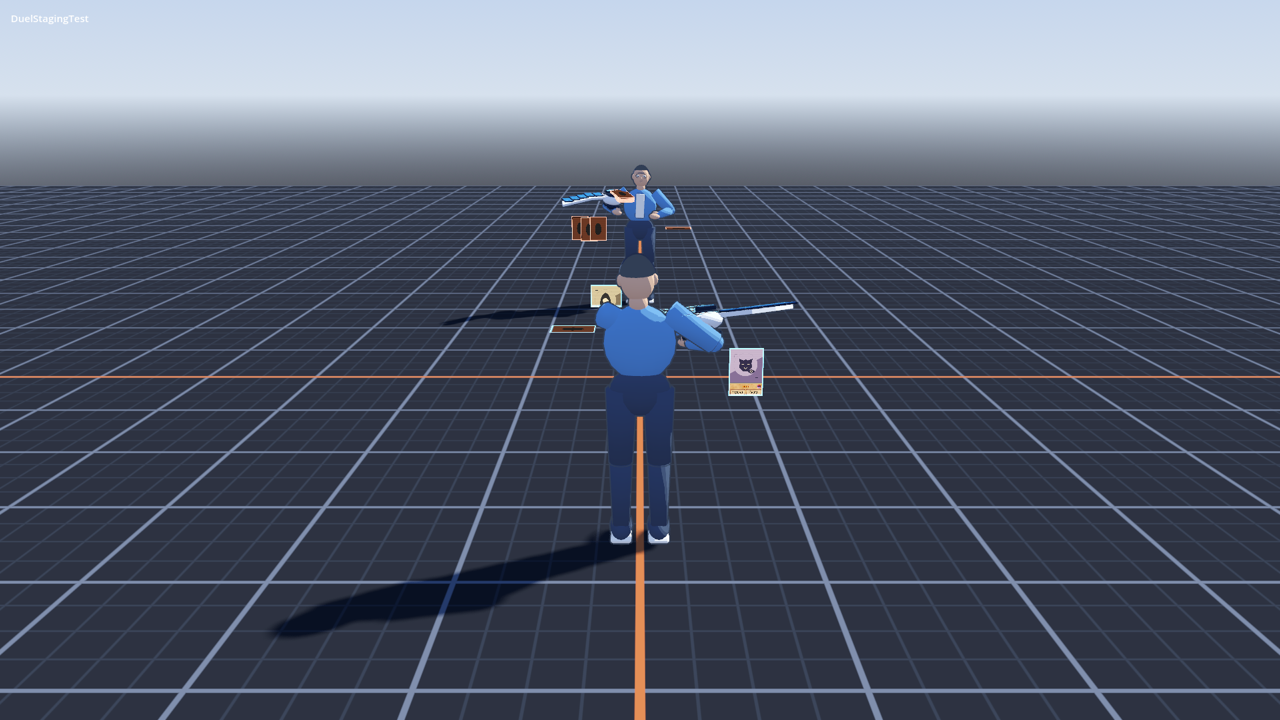
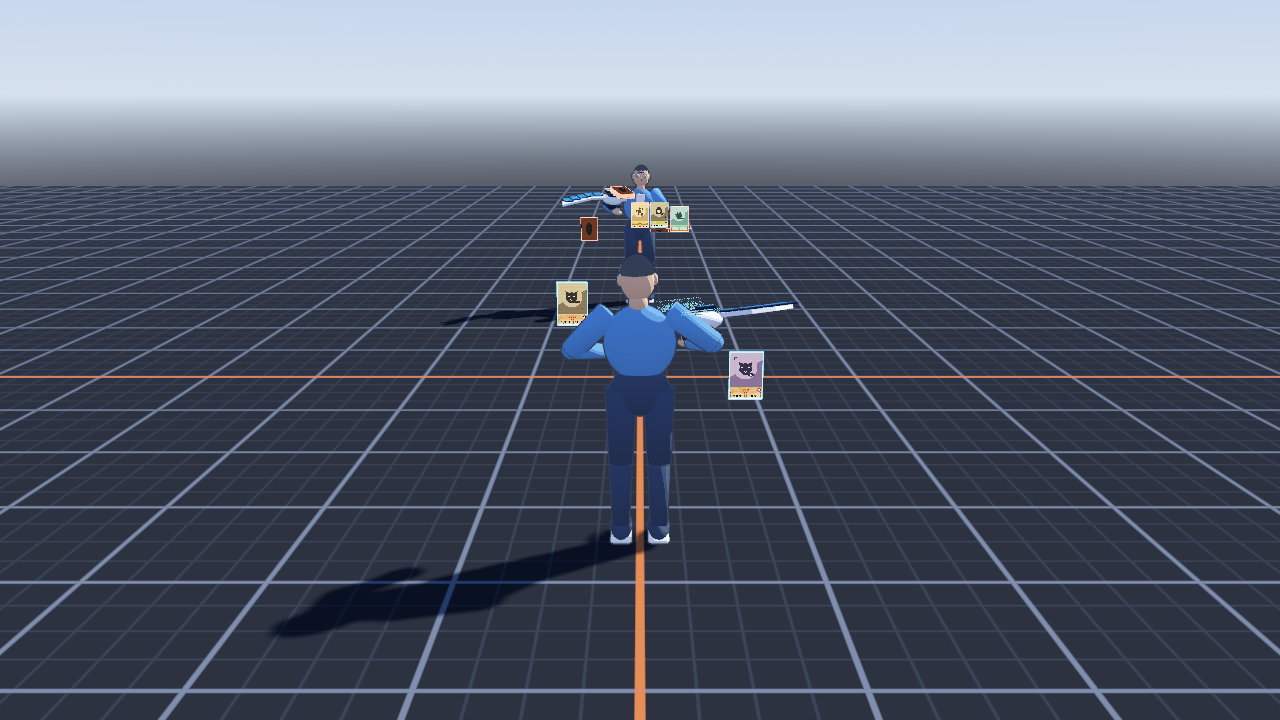
Replace the evidence with review captures of the Set cards and piles

diff --git a/docs/decisions.md b/docs/decisions.md
@@ -84,3 +84,5 @@ Format: `| date | decision | rationale | decided by |`
 | 2026-09-15 | The §6.4 hooks go through one adapter, `DuelEffects`, that instantiates the artist's `vfx/` scenes and plays the `assets/audio/sfx` cues; each card uniform has a single writer (the scene when it exists, the `CardView` tween otherwise), and a missing asset degrades to nothing after one warning | The #64 runtime review asked for actual anchors, side colours and no concurrent writers; presentation must never gate the rules or depend on the assets | claude-fable |
 | 2026-09-15 | Acceptance scenes silence the cue players before they finish | Headless Godot never mixes audio, so an active playback is reported as a leaked AudioStream at exit and would fail the CI error grep | claude-fable |
 | 2026-09-20 | Set cards lie flat (face to the ground, at the foot of the upright cards; a Set monster turned sideways) instead of standing upright with the back to the camera | Director playtest: an upright Set Spell/Trap in the front row hid the opponent's monster behind it from the duel camera (systems.md §6.1) | director |
+| 2026-09-20 | On the duel disk every deck lies face to the floor, graveyards and banished piles face the sky, and piles grow upward, chosen from the marker's direction rather than from mirroring | Director: no player may see a deck's cards. The rookie disk's pile markers point down, which left the player's deck face up and their graveyard face down | director |
+| 2026-09-20 | Upright cards mirror by the side they sit on, not by owner | A monster taken with Snatch Steal showed its back to the player | claude-fable |

diff --git a/tests/scenes/README.md b/tests/scenes/README.md
@@ -152,7 +152,9 @@ frames, the icons, a level 12 and a Ritual fixture composing). A few commands
 in it selects a card and checks that one persistent `CardSelected` drives the
 `selected` uniform and stops on deselect. After every command it checks
 that each Set card lies flat, face to the ground, at the foot of its zone (a
-Set monster sideways). When the duel settles it checks
+Set monster sideways), that every face-up field card faces the player's
+camera whoever controls it, and that decks face the floor, graveyards face the
+sky and both piles grow upward. When the duel settles it checks
 the §6.4 hooks: the six `vfx/` scenes load, CardMaterialise, SummonFlash,
 AttackTrail and HitPulse were spawned once per draw/summon/attack/damage
 event, the eight cues played once per event (the win or lose stinger once),
@@ -167,7 +169,9 @@ godot --headless --path . res://tests/scenes/DuelStagingTest.tscn --fixed-fps 60
 
 Headless runs keep the face viewports (nothing is drawn to read back). In
 the editor, or with a window, `-- --capture <dir>` saves `staging.png` and the
-baked faces of the cards in play a few commands in, for visual review of the
+baked faces of the cards in play a few commands in (plus `staging_set_duel.png`,
+`staging_set_field.png` and `staging_set_piles.png`, review viewports on the
+Set cards and the disk piles), for visual review of the
 six frame types, stars, attribute, stats and badges.
 
 ## DistrictTest.tscn (issues #23, #62, #63)

diff --git a/docs/requests/evidence/flat-set-cards/README.md b/docs/requests/evidence/flat-set-cards/README.md
@@ -1,11 +1,12 @@
-# Flat Set cards evidence
+# Flat Set cards and disk piles evidence
 
-Captures of `tests/scenes/DuelStagingTest.tscn` windowed with
-`-- --capture <dir>`, twelve commands into the same seeded duel, on
-`main` (before) and on the fix (after), downscaled to 1280 px.
+`tests/scenes/DuelStagingTest.tscn` windowed with `-- --capture <dir>`: the
+`staging_set_*.png` review pictures, taken in the same seeded duel the first
+time the opponent has a Set Spell/Trap in front of a face-up monster and a Set
+monster. Before is `main` with the same test scene, after is the fix.
 
 | File | What |
 | --- | --- |
-| `before_duel_camera.png`, `after_duel_camera.png` | The duel camera |
-| `before_duel_camera_zoom.png`, `after_duel_camera_zoom.png` | The field cropped from the full-size capture |
-| `before_side.png`, `after_side.png` | The opponent's side from the review camera: two Set Spell/Traps and a Set monster |
+| `*_opponent_field.png` | The opponent's field from above the player's side: two face-up monsters (the right one taken with Snatch Steal), a Set monster, a Set Spell/Trap and the face-up Snatch Steal |
+| `*_duel_camera.png`, `*_duel_camera_zoom.png` | The same moment from the duel camera, and the opponent cropped from it |
+| `*_player_piles.png` | The player's disk from above: deck and graveyard |

diff --git a/docs/design/systems.md b/docs/design/systems.md
@@ -563,7 +563,11 @@ ground and back up, dropped half a card height so they rest at the foot of
 the upright cards: a Set Spell/Trap keeps its long side along the duel axis,
 a Set monster is turned 90° so its long side runs across the row. A flat
 card never covers the row behind it from the duel camera. Upright face-down
-(turned 180° about Y) remains for the opponent's hand and the deck.
+(turned 180° about Y) remains for the opponent's hand. On the disk the deck
+lies face to the floor so nobody reads it, the graveyard and the banished pile
+face the sky, and piles grow upward, whichever way the disk's markers point.
+Upright cards mirror by the side they are on, not by owner, so a monster
+taken by the opponent still faces the player's camera.
 
 Implementation (issue #60):
 
